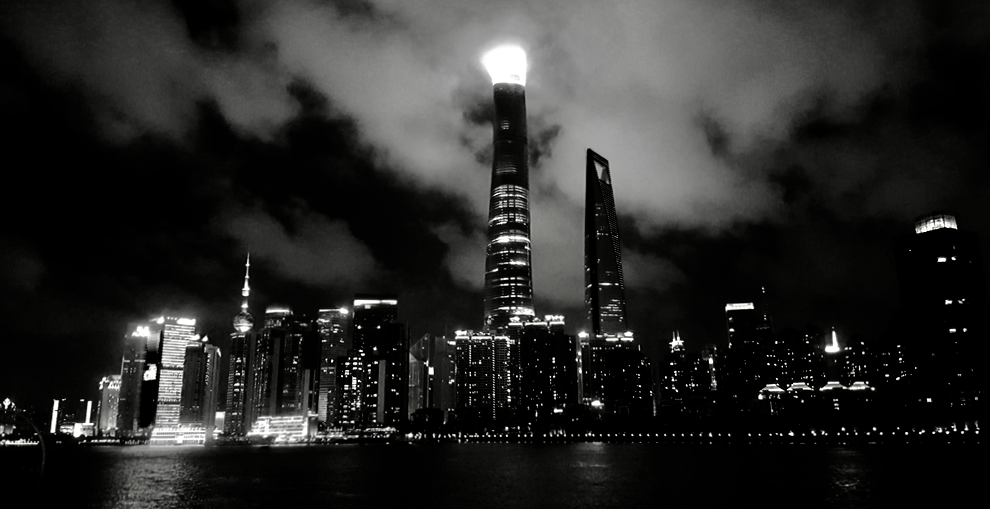
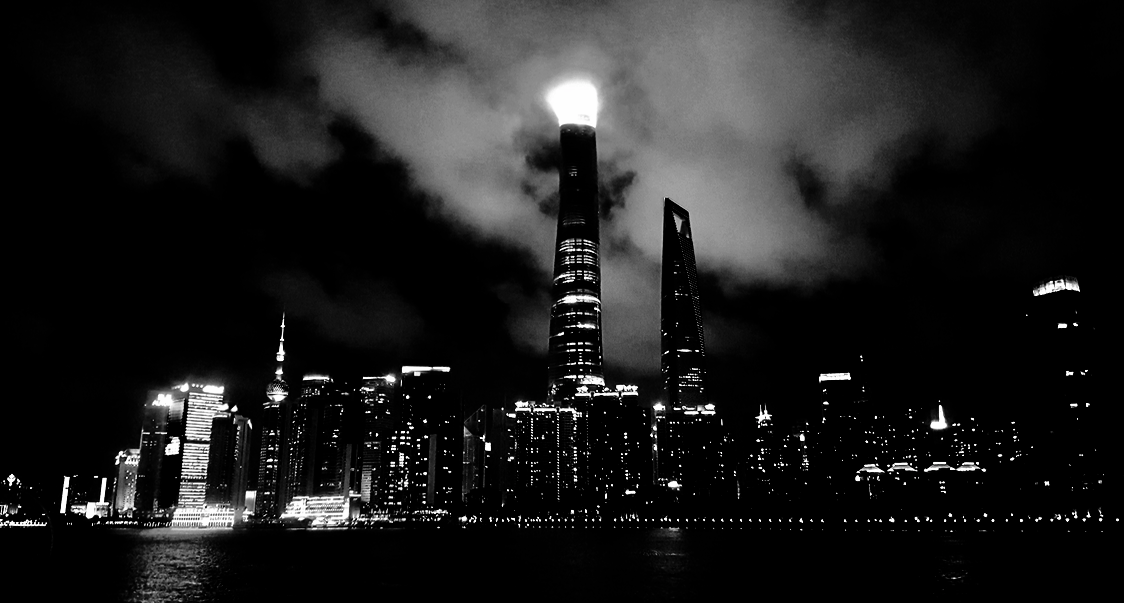
Background image and subheaders
Changed background image to be darker.
Added contact and about headings, and changed position

diff --git a/css/homepage.css b/css/homepage.css
@@ -4,28 +4,39 @@ body, html {
 }
 
 body {
-	background-color: darkgray;
+	background-color: black;
 }
 
 .container{
 	background-image: url(../images/bund.png) no-repeat center;
 	background-size: cover;
 	background-repeat: no-repeat;
-	width:100%x;
 	position: absolute;
-	margin-top: 50px;
-	margin-left: 100px;
+	margin-top: 30px;
+	margin-left: 80px;
+	opacity:0.8;
 }
 
 .headers-left{
 	float:left;
 	color: white;
-	background-color: red;
 	display: inline-block;
+	padding-left:82px;
+	padding-top: 10px;
+	font-size: 15px;
+	font-family: georgia;
+	letter-spacing: 0.5px;
+	opacity: 1;
 }
 
 .subheaders a{
-	color:blue;
-	margin-top: 300px;
+	color:white;
+	margin-top: 590px;
 	display: inline-block;
+	text-indent: 20px;
+	font-size: 16px;
+	text-decoration: none;
+	position: center;
+	padding-left: 30px;
+	opacity: 0.6;
 }

diff --git a/html/homepage.html b/html/homepage.html
@@ -10,14 +10,23 @@
 		<h1>#ZaiShanghai</h1>
 
 	</div>
-	<div clas="subheaders">
-		<a href="">Food & Drink</a>
-		<a href="">Travel</a>
-
-	</div>
+	
 
 	<div class="container">
 		<img src="../images/bund.png">
+	</div>
+
+<div class="subheaders">
+		<a href="">Food & Drink</a>
+		<a href="">Getting Around</a>
+		<a href="">Nightlife</a>
+		<a href="">Exploring Nearby</a>
+		<a href="">Top Tips</a>
+		<a href="">About</a>
+		<a href="">Contact</a>
+
+	</div>
+
 
 </header>
 </body>
